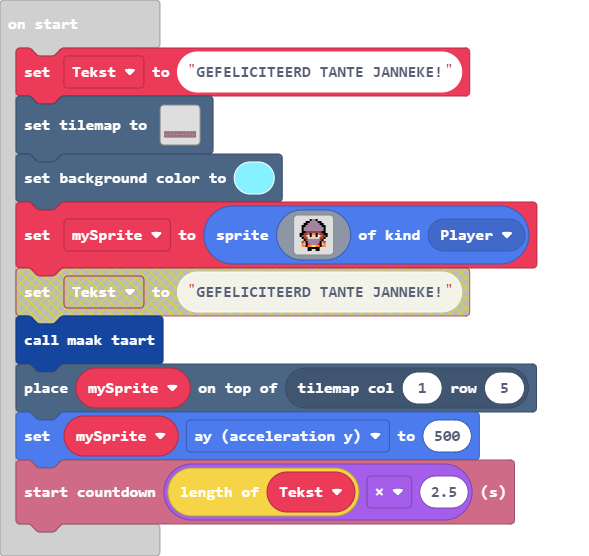
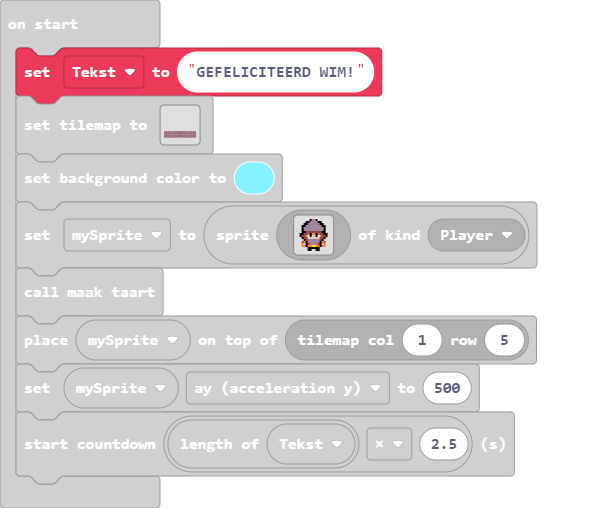
Update pxt.json, main.blocks, main.ts

diff --git a/main.ts b/main.ts
@@ -43,7 +43,7 @@ let projectile: Sprite = null
 let mySprite2: Sprite = null
 let mySprite: Sprite = null
 let Tekst = ""
-Tekst = "GEFELICITEERD TANTE JANNEKE!"
+Tekst = "GEFELICITEERD WIM!"
 tiles.setTilemap(tilemap`level7`)
 scene.setBackgroundColor(9)
 mySprite = sprites.create(img`
